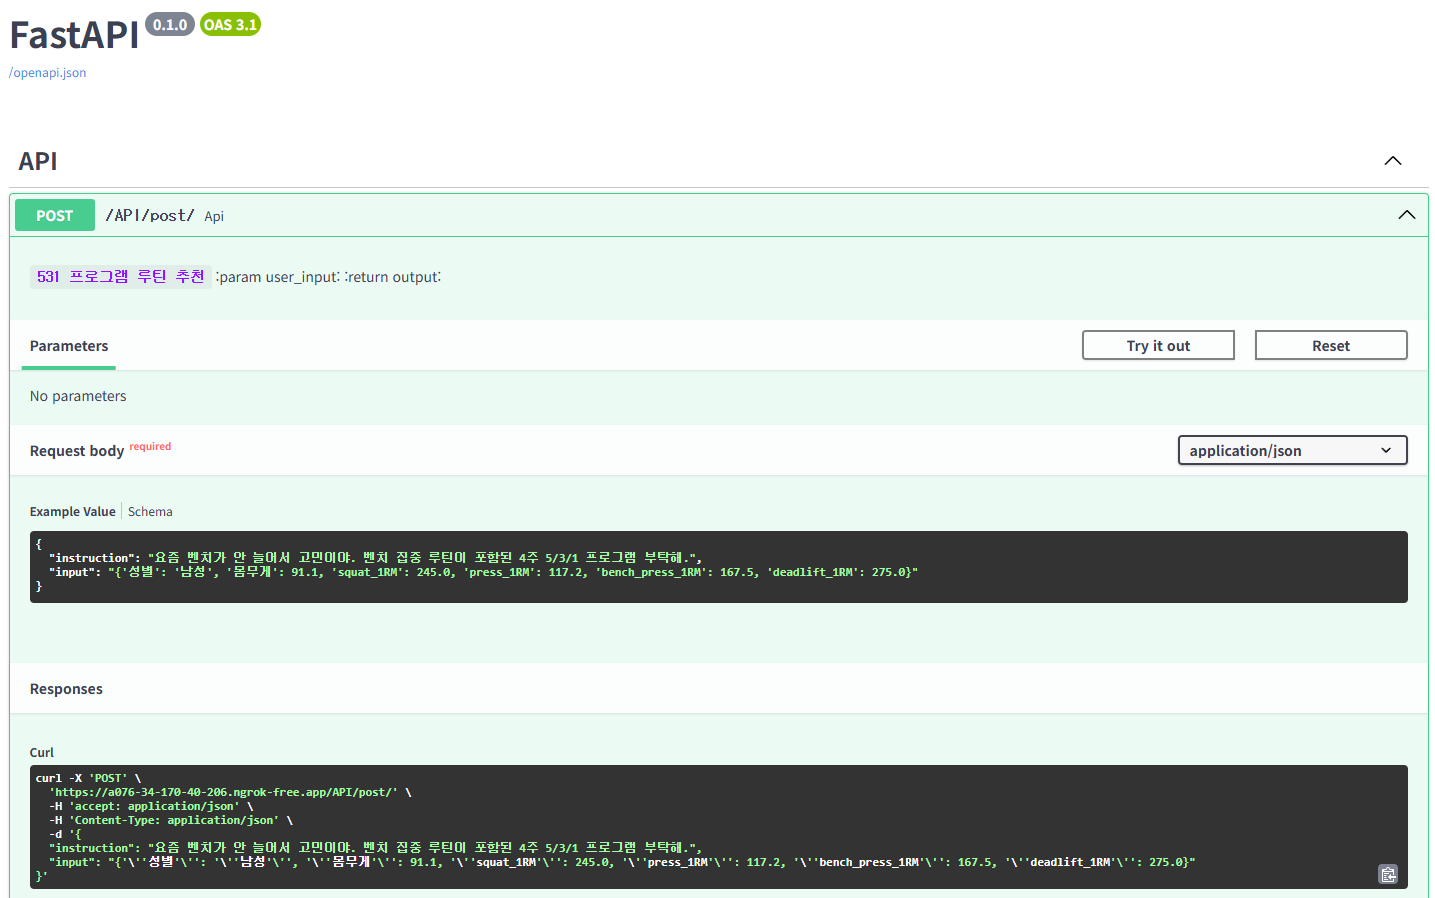
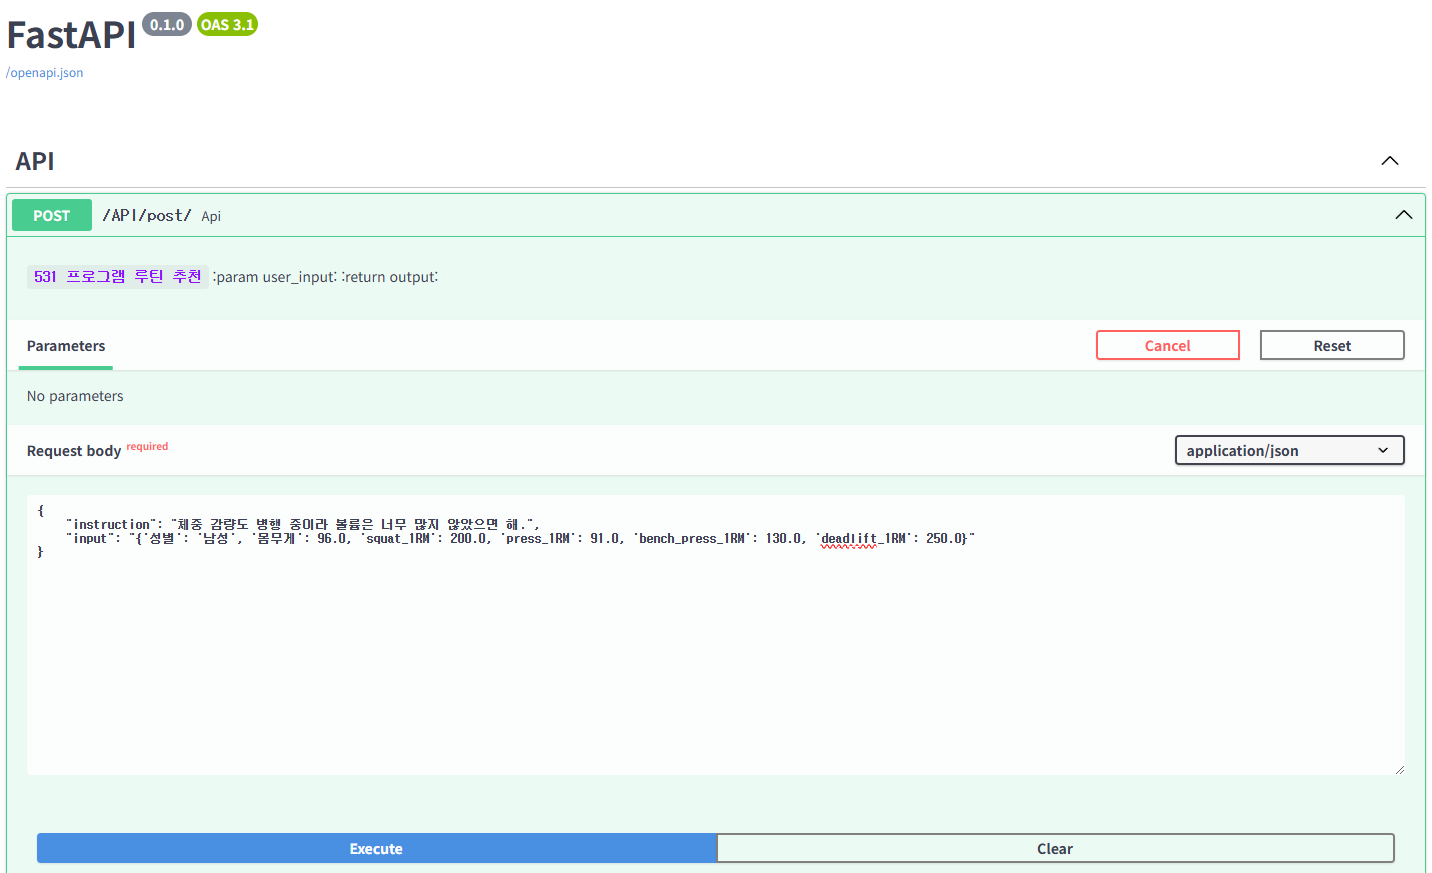
Docs: 문서화 #7

diff --git a/docs/model_training.md b/docs/model_training.md
@@ -3,7 +3,7 @@
 - 사용한 모델: `Gemma3-1B`
 - 학습 방식 : `LoRA`
 - 학습 환경: Google Colab, v2-8 TPU 사용
-- 학습 방식 구체적 기술
+- 학습 방식 구체적 기술 : 문서 하단의 [2. 모델 학습 과정 참고](https://github.com/daehyun99/BurnFit-AI-developer-assignment/blob/main/docs/model_training.md#2-%EB%AA%A8%EB%8D%B8-%ED%95%99%EC%8A%B5-%EA%B3%BC%EC%A0%95)
     - 학습 데이터 구성 전략
         1. `GPT-4o-mini`와 `프롬프트 엔지니어링`을 활용하여, 531 프로그램 데이터 생성
         2. Kaggle의 파워리프팅 대회 데이터를 통한, 유저들의 신체 정보 및 1RM 데이터 확보
@@ -37,7 +37,7 @@
 - 출력
     ```
     {
-    "output": "체중 감량과 함께 운동을 병행하신다니 정말 멋진 목표입니다! 체중 감량을 위해서는 운동의 볼륨을 조절하면서도 효과적으로 근육을 유지하는 것이 중요합니다. 531 프로그램을 기반으로 주차별로 추천 중량을 안내해드릴게요.\n\n먼저, 당신의 1RM(들 수 있는 최대 무게)을 기준으로 TM(실제 1RM의 90%)을 계산해보겠습니다.\n\n- **스쿼트 TM**: 200kg × 0.9 = 180kg\n- **밀리터리 프레스 TM**: 91kg × 0.9 = 81.9kg\n- **벤치 프레스 TM**: 130kg × 0.9 = 117kg\n- **데드리프트 TM**: 250kg × 0.9 = 225kg\n\n이제 주차별로 추천 중량을 안내해드리겠습니다. 볼륨을 줄이기 위해 각 세트의 반복 횟수를 조정하겠습니다.\n\n### 1주차 (TM의 65%, 75%, 85%):\n- **스쿼트**: 5회 122.5kg, 5회 140kg, 5회 이상 155kg\n- **밀리터리 프레스**: 5회 55kg, 5회 65kg, 5회 이상 75kg\n- **벤치 프레스**: 5회 75kg, 5회 85kg, 5회 이상 95kg\n- **데드리프트**: 5회 125kg, 5회 145kg, 5회 이상 165kg\n\n### 2주차 (TM의 70%, 80%, 90%):\n- **스쿼트**: 3회 130kg, 3회 145kg, 3회 이상 160kg\n- **밀리터리 프레스**: 3회 60kg, 3회 70kg, 3회 이상 80kg\n- **벤치 프레스**: 3회 80kg, 3회 90kg, 3회 이상 100kg\n- **데드리프트**: 3회 135kg, 3회 155kg, 3회 이상 175kg\n\n### 3주차 (TM의 75%, 85%, 95%):\n- **스쿼트**: 5회 140kg, 3회 155kg, 1회 이상 170kg\n- **밀리터리 프레스**: 5회 65kg, 3회 75kg, 1회 이상 85kg\n- **벤치 프레스**: 5회 85kg, 3회 95kg, 1회 이상 105kg\n- **데드리프트**: 5회 145kg, 3회 165kg, 1회 이상 185kg\n\n### 4주차 (TM의 40%, 50%, 60%) (디로드 주):\n- **스쿼트**: 5회 75kg, 5회 95kg, 5회 이상 110kg\n- **밀리터리 프레스**: 5회 30kg, 5회 40kg, 5회 이상 50kg\n- **벤치 프레스**: 5회 50kg, 5회 60kg, 5회 이상 70kg\n- **데드리프트**: 5회 75kg, 5회 95kg, 5회 이상 110kg\n\n운동을 진행하면서 자신의 몸 상태를 잘 살피고, 필요할 경우 중량을 조절하세요. 체중 감량과 근육 유지에 도움이 되는 운동을 통해 건강하고 힘든 삶을 만들어가세요! 당신의 목표를 응원합니다! 힘내세요! 💪"
+        "output": "체중 감량과 함께 운동을 병행하신다니 정말 멋진 목표입니다! 체중 감량을 위해서는 운동의 볼륨을 조절하면서도 효과적으로 근육을 유지하는 것이 중요합니다. 531 프로그램을 기반으로 주차별로 추천 중량을 안내해드릴게요.\n\n먼저, 당신의 1RM(들 수 있는 최대 무게)을 기준으로 TM(실제 1RM의 90%)을 계산해보겠습니다.\n\n- **스쿼트 TM**: 200kg × 0.9 = 180kg\n- **밀리터리 프레스 TM**: 91kg × 0.9 = 81.9kg\n- **벤치 프레스 TM**: 130kg × 0.9 = 117kg\n- **데드리프트 TM**: 250kg × 0.9 = 225kg\n\n이제 주차별로 추천 중량을 안내해드리겠습니다. 볼륨을 줄이기 위해 각 세트의 반복 횟수를 조정하겠습니다.\n\n### 1주차 (TM의 65%, 75%, 85%):\n- **스쿼트**: 5회 122.5kg, 5회 140kg, 5회 이상 155kg\n- **밀리터리 프레스**: 5회 55kg, 5회 65kg, 5회 이상 75kg\n- **벤치 프레스**: 5회 75kg, 5회 85kg, 5회 이상 95kg\n- **데드리프트**: 5회 125kg, 5회 145kg, 5회 이상 165kg\n\n### 2주차 (TM의 70%, 80%, 90%):\n- **스쿼트**: 3회 130kg, 3회 145kg, 3회 이상 160kg\n- **밀리터리 프레스**: 3회 60kg, 3회 70kg, 3회 이상 80kg\n- **벤치 프레스**: 3회 80kg, 3회 90kg, 3회 이상 100kg\n- **데드리프트**: 3회 135kg, 3회 155kg, 3회 이상 175kg\n\n### 3주차 (TM의 75%, 85%, 95%):\n- **스쿼트**: 5회 140kg, 3회 155kg, 1회 이상 170kg\n- **밀리터리 프레스**: 5회 65kg, 3회 75kg, 1회 이상 85kg\n- **벤치 프레스**: 5회 85kg, 3회 95kg, 1회 이상 105kg\n- **데드리프트**: 5회 145kg, 3회 165kg, 1회 이상 185kg\n\n### 4주차 (TM의 40%, 50%, 60%) (디로드 주):\n- **스쿼트**: 5회 75kg, 5회 95kg, 5회 이상 110kg\n- **밀리터리 프레스**: 5회 30kg, 5회 40kg, 5회 이상 50kg\n- **벤치 프레스**: 5회 50kg, 5회 60kg, 5회 이상 70kg\n- **데드리프트**: 5회 75kg, 5회 95kg, 5회 이상 110kg\n\n운동을 진행하면서 자신의 몸 상태를 잘 살피고, 필요할 경우 중량을 조절하세요. 체중 감량과 근육 유지에 도움이 되는 운동을 통해 건강하고 힘든 삶을 만들어가세요! 당신의 목표를 응원합니다! 힘내세요! 💪"
     }
     ```
 

diff --git a/README.md b/README.md
@@ -72,12 +72,12 @@ graph LR
 
 # 3. 실행 방법
 ## 3-1. FastAPI 서버 실행: [FastAPI (Colab)](https://colab.research.google.com/drive/136btY15Ar3C2Rj-S_1jGkjuMCO38nFDt?usp=sharing)
-    - `Colab`환경에서 `ngrok` 서버 배포
-        1. `Colab` 파일 복사
-        2. Gemma3 모델 구글 드라이브에 업로드 필요
-        3. ngrok 토큰 입력 필요
-        4. `ngrok` 서버 접속 및 `docs/model_training.md`의 **3. 예시 사용자 루틴 생성**의 입력 데이터 활용
-    - 🛑 로컬 실행 시, `gemma`라이브러리에서 오류 발생 -> Colab 환경 실행 필요
+- `Colab`환경에서 `ngrok` 서버 배포
+    1. `Colab` 파일 복사
+    2. Gemma3 모델 구글 드라이브에 업로드 필요
+    3. ngrok 토큰 입력 필요
+    4. `ngrok` 서버 접속 및 `docs/model_training.md`의 **3. 예시 사용자 루틴 생성**의 입력 데이터 활용
+- 🛑 로컬 실행 시, `gemma`라이브러리에서 오류 발생 -> Colab 환경 실행 필요
 ### 예시 사용자 루틴 생성 결과
 - Request
 ![FastAPI-Request](https://github.com/daehyun99/BurnFit-AI-developer-assignment/blob/main/images/FastAPI-Request.PNG)
@@ -86,21 +86,21 @@ graph LR
 ![FastAPI-Response](https://github.com/daehyun99/BurnFit-AI-developer-assignment/blob/main/images/FastAPI-Response.PNG)
 
 ## 3-2. Data 전처리 : (/data/)
-    - .env 파일 생성 및 입력
-    ```sh
-    OPENAI_API_KEY=""
-    ```
-    - 가상환경 및 패키지 설정
-    ```py
-    # 가상환경 설정
-    conda create -n burnfit-data python=3.11
-    conda activate burnfit-data
+- .env 파일 생성 및 입력
+```sh
+OPENAI_API_KEY=""
+```
+- 가상환경 및 패키지 설정
+```py
+# 가상환경 설정
+conda create -n burnfit-data python=3.11
+conda activate burnfit-data
 
-    # 패키지 설치
-    pip install pandas openai scikit-learn matplotlib python-dotenv
+# 패키지 설치
+pip install pandas openai scikit-learn matplotlib python-dotenv
 
-    # /data의 .ipynb을 활용하여, 데이터 전치리 수행
-    ```
+# /data의 .ipynb을 활용하여, 데이터 전치리 수행
+```
 # 4. 사용한 라이브러리 및 환경 정보
 - 개발 환경
     - 데이터 전처리 및 모델 학습
